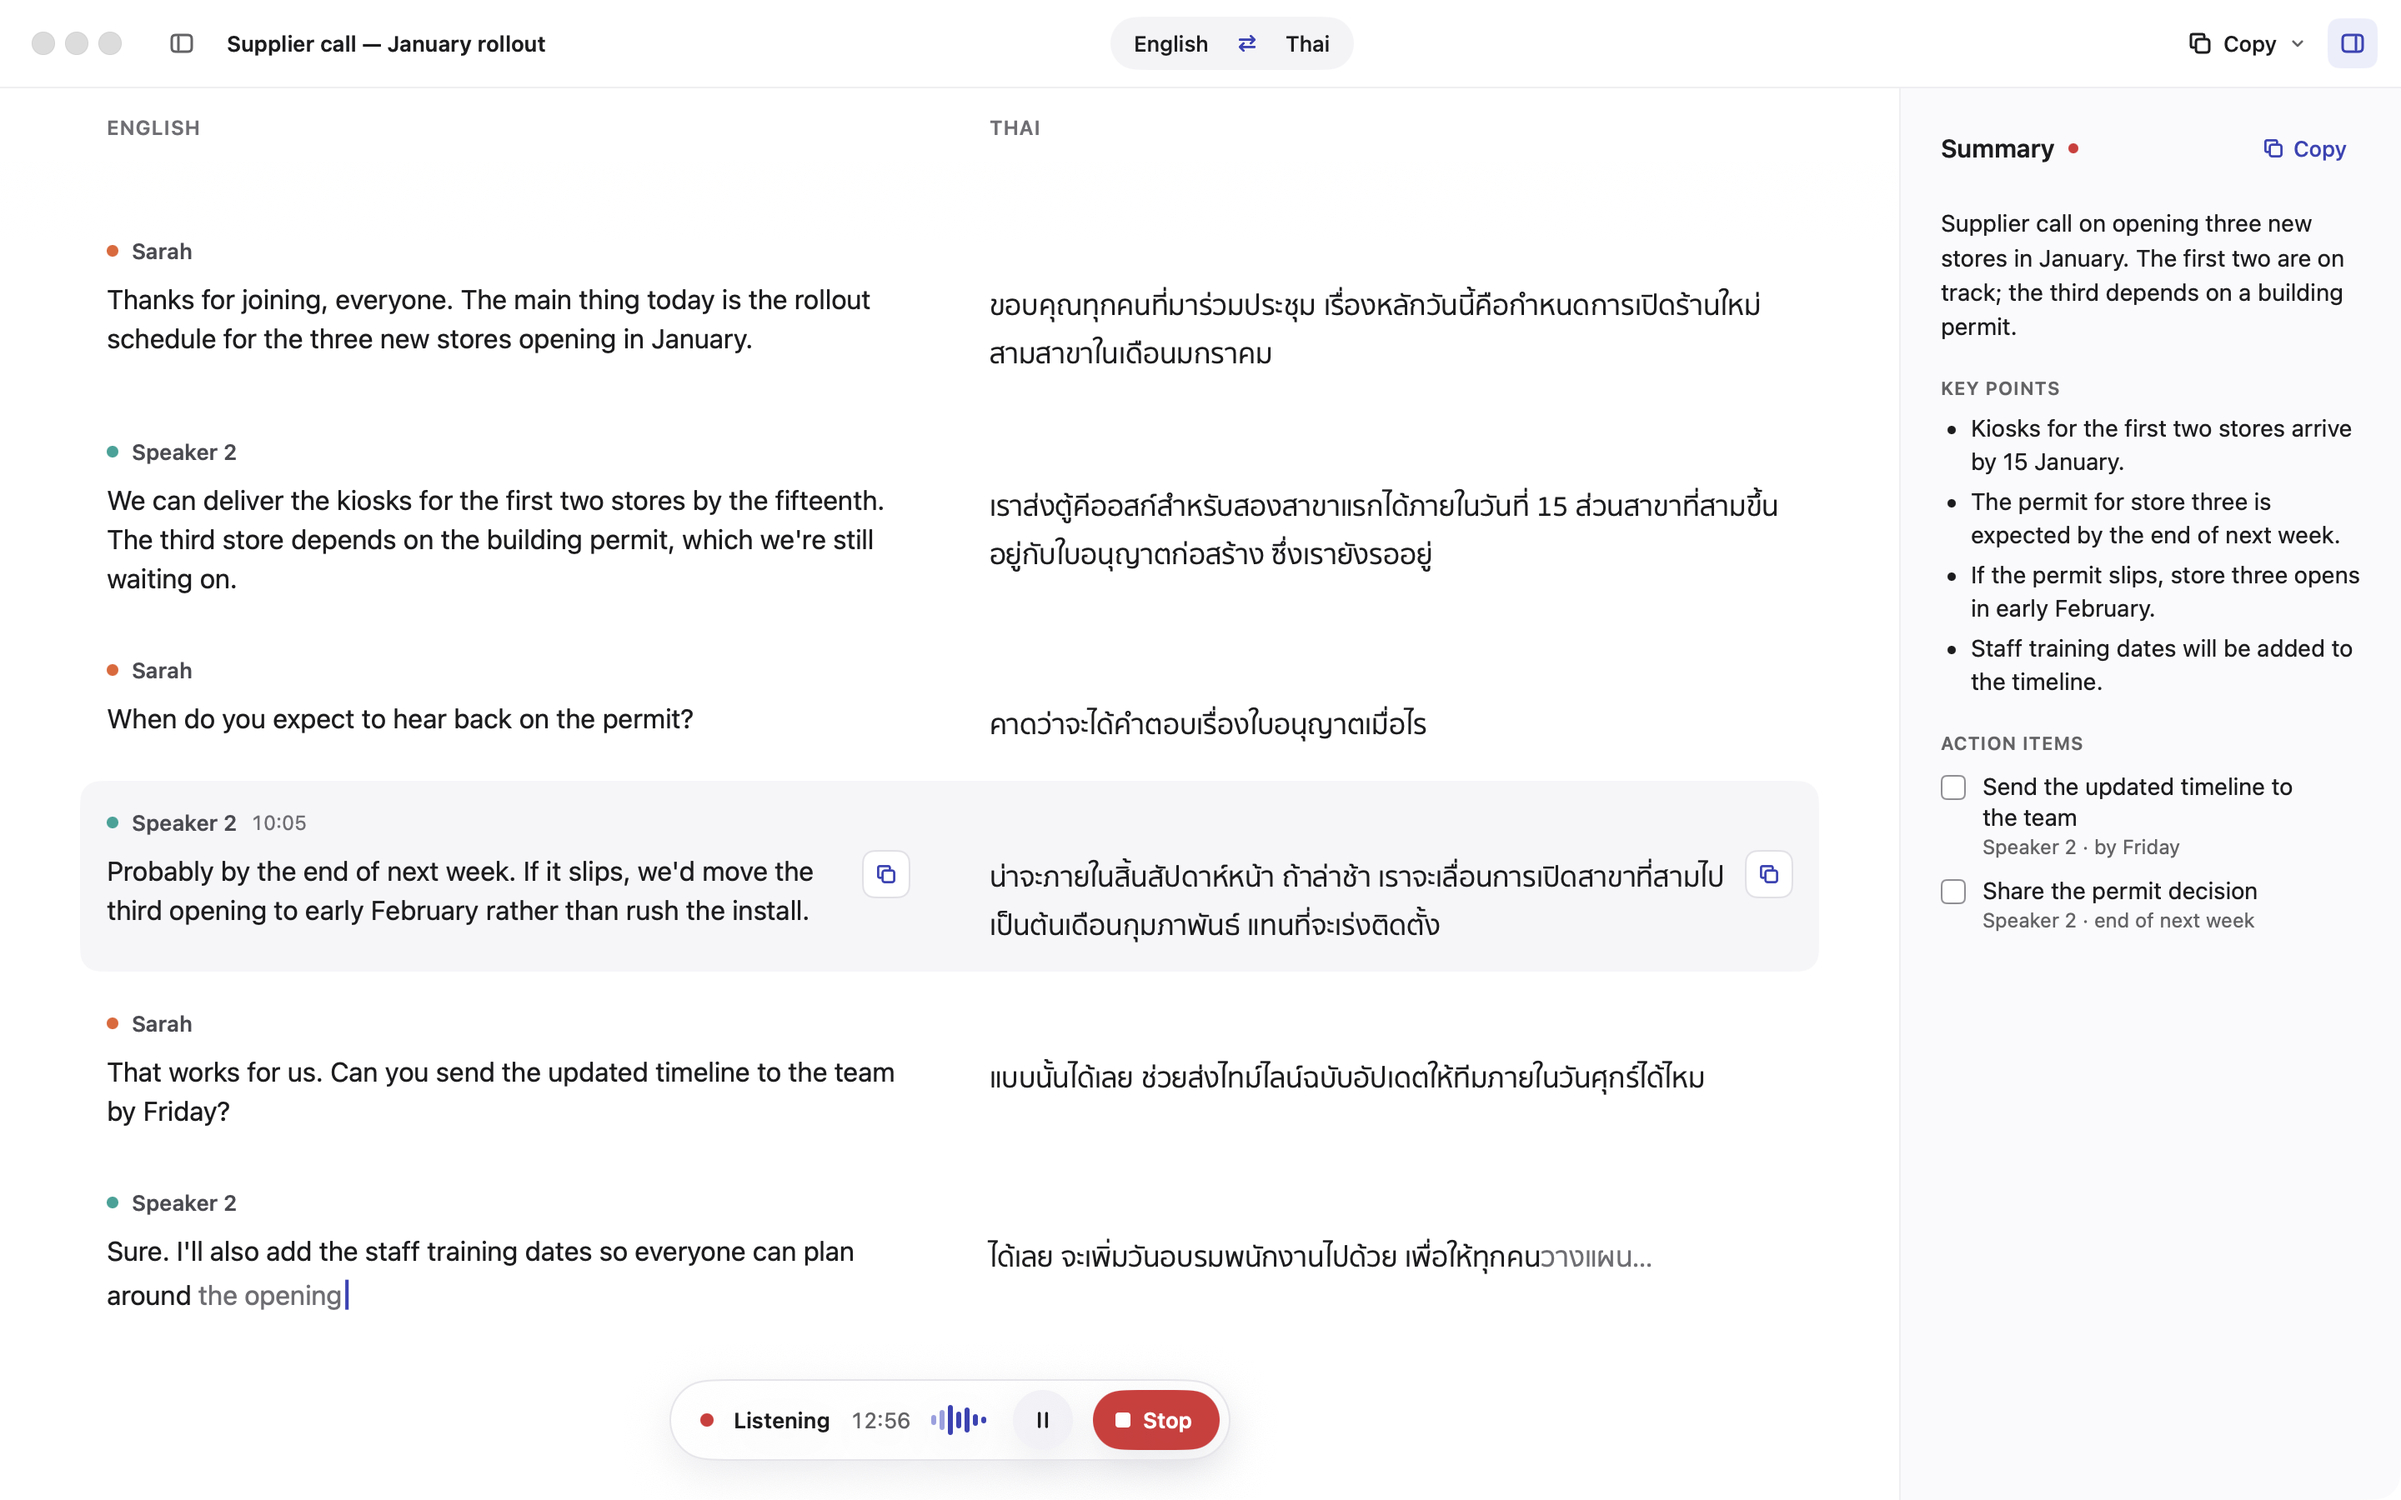
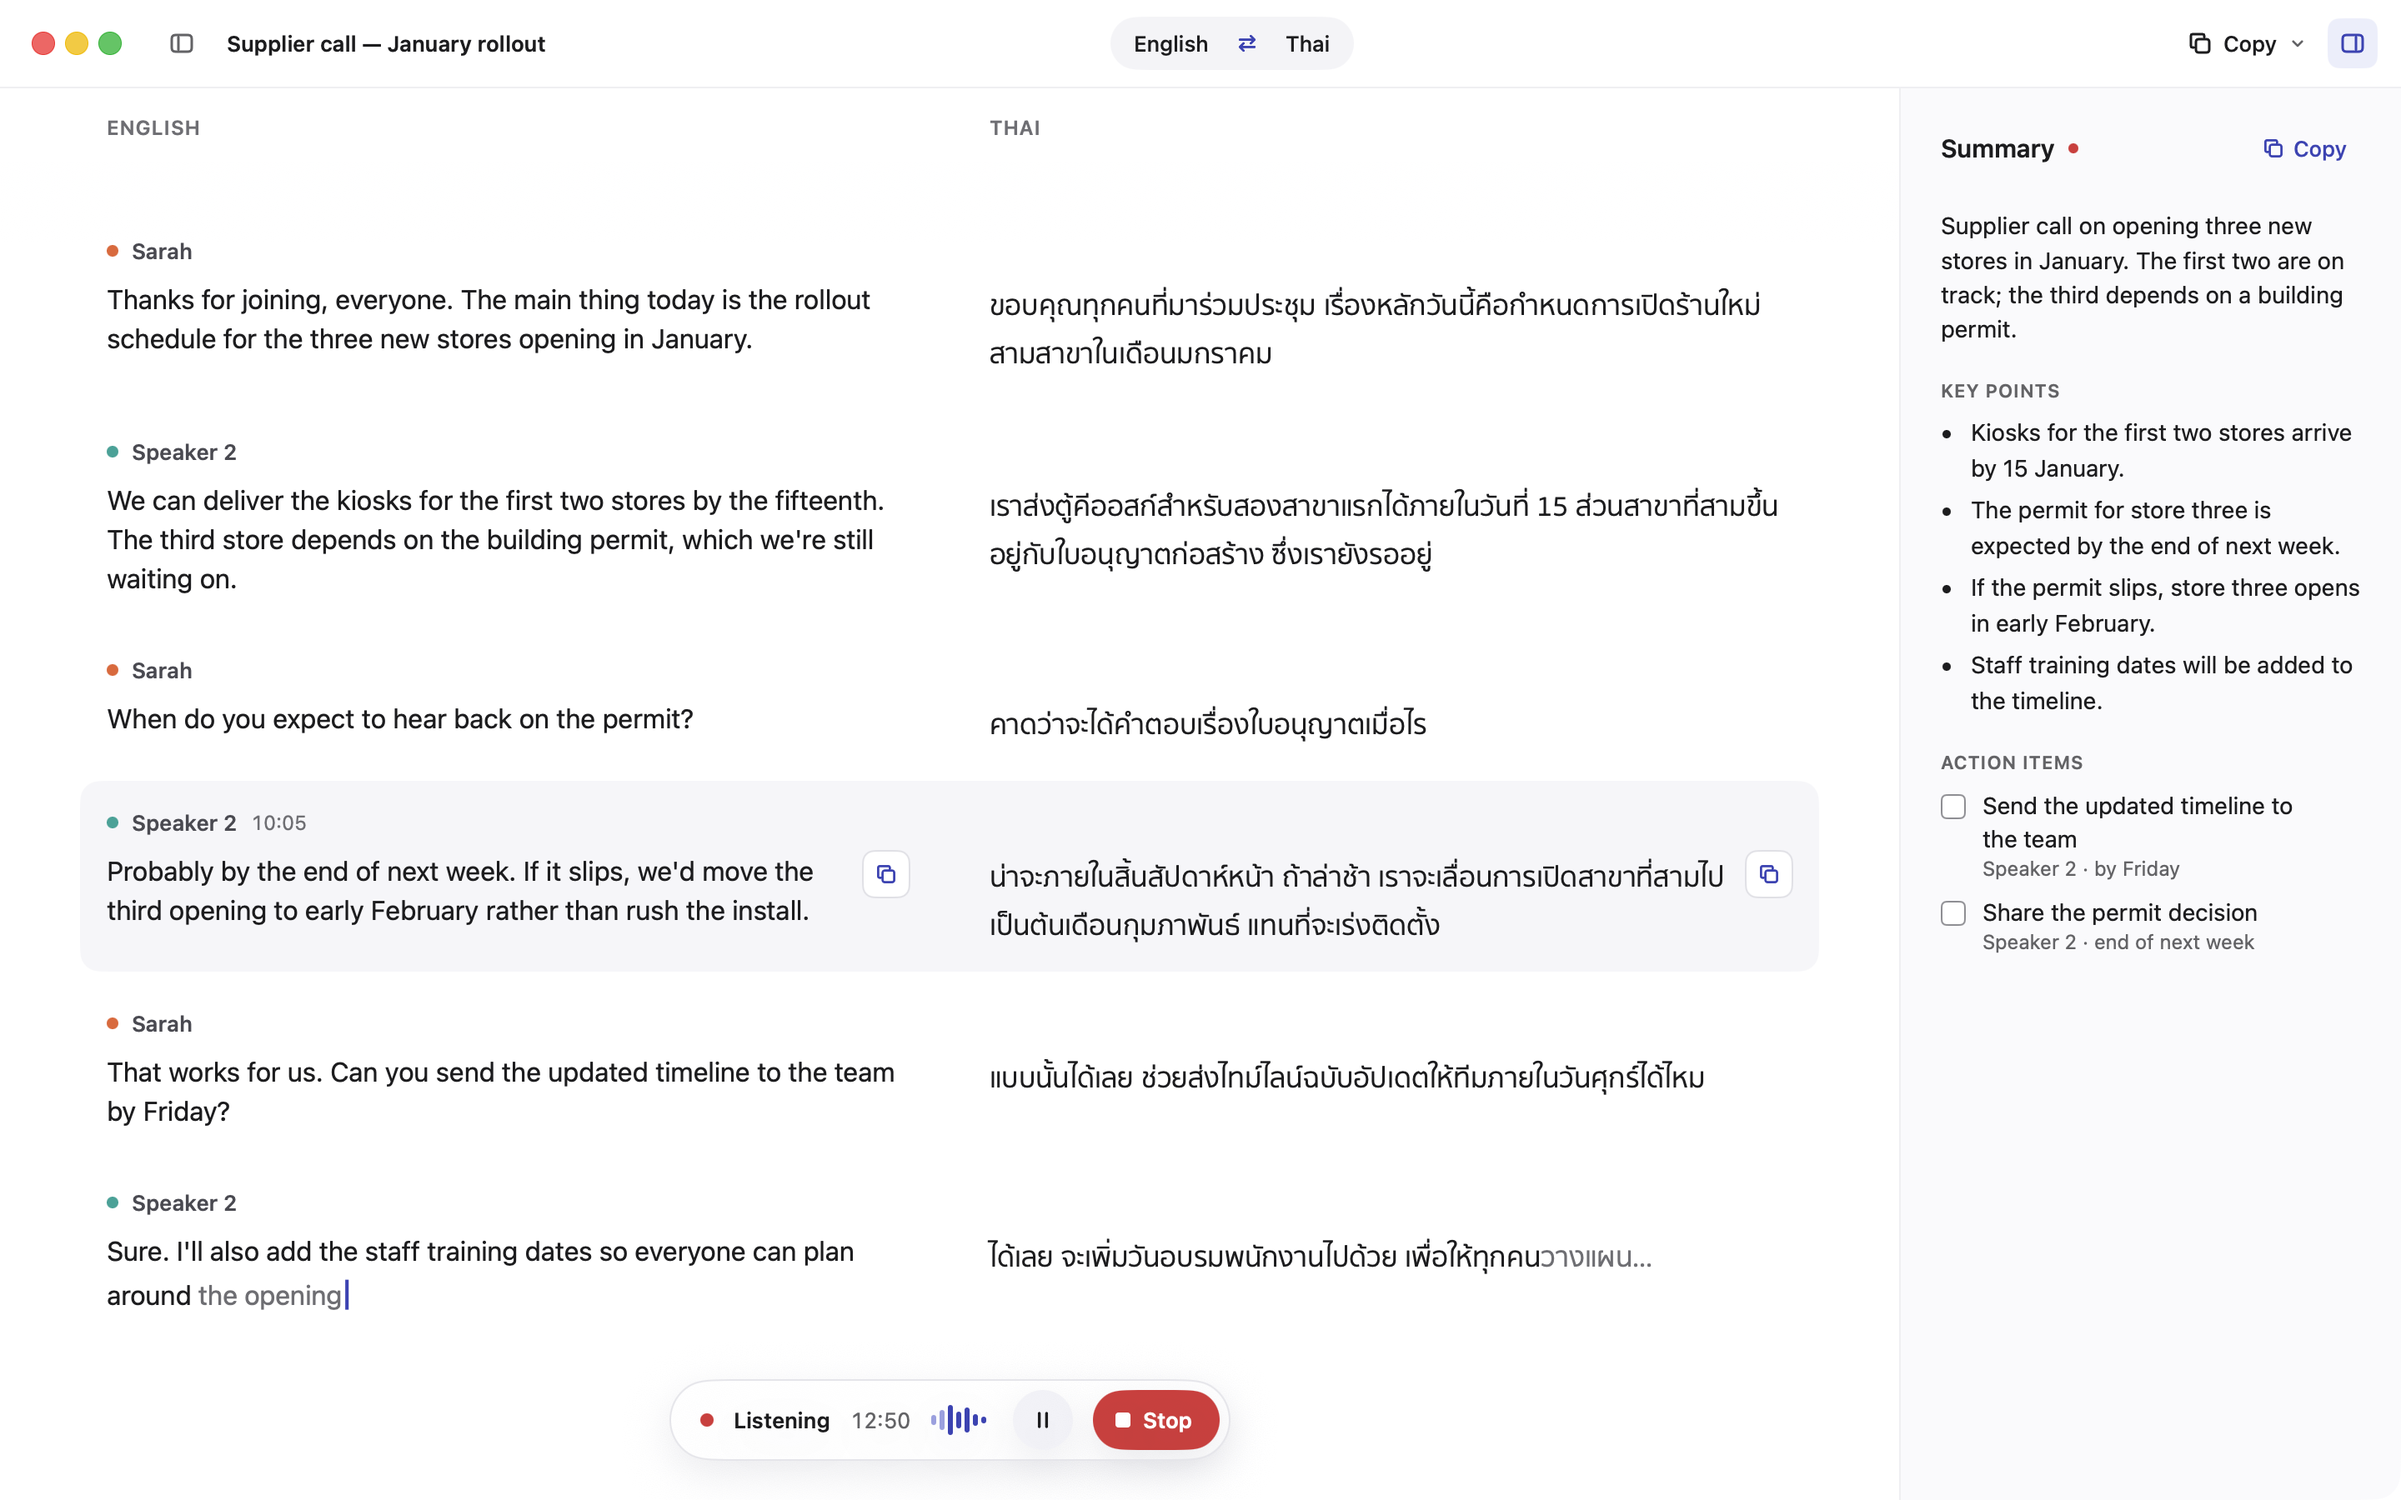
Match the summary panel's spacing to the design and check the design's shortcuts in the live app.
The summary's paragraph, key points and action items now sit on the
design's line heights and bullet position. Measured against the design
rendered in WebKit, a capture of the running window matches 90–99% of
pixels per region (column labels 99.2%, pill 97.6%, header 95.0%,
transcript 93.8%, summary 90.2%); the rest is text antialiasing.

A keys automation mode sends real key events through the menu bar:
⌥⌘1–4 copy the original, translation, bilingual and summary variants,
Include → Timestamps adds times, ⇧⌘K opens the 760 × 184 captions above
normal windows, and ⌥⌘I / ⌃⌘S toggle the panels.

Changed region(s): [[0.8125, 0.2489, 1.0, 0.6533], [0.8125, 0.1244, 0.9688, 0.2178], [0.0, 0.0, 0.0625, 0.0311]]

diff --git a/Sources/LiveTranslateUI/AutomationRunner.swift b/Sources/LiveTranslateUI/AutomationRunner.swift
@@ -183,6 +183,12 @@ enum AutomationRunner {
             NSApp.terminate(nil)
             return
         }
+        if ProcessInfo.processInfo.environment["LT_AUTOMATION_ONLY"] == "keys" {
+            await keyboardCheck(controller)
+            check("Done", true, folder.path)
+            NSApp.terminate(nil)
+            return
+        }
         if ProcessInfo.processInfo.environment["LT_AUTOMATION_ONLY"] == "window" {
             await windowCheck()
             check("Done", true, folder.path)
@@ -281,6 +287,61 @@ enum AutomationRunner {
         let heard = ["meeting", "notes", "translation", "ship"].filter { source.lowercased().contains($0) }
         check("\(label): speech recognized from real sound", heard.count >= 2, source)
         check("\(label): translated to Thai", translation.unicodeScalars.contains { (0x0E00...0x0E7F).contains($0.value) }, translation)
+    }
+
+    /// The design's shortcuts, sent as real key events through the app's menu bar:
+    /// ⌥⌘1–4 copy the session, ⇧⌘K opens the floating captions above other windows.
+    private static func keyboardCheck(_ controller: SessionController) async {
+        controller.loadDemo()
+        await sleep(1)
+        func press(_ key: String, _ flags: NSEvent.ModifierFlags) -> Bool {
+            guard let event = NSEvent.keyEvent(
+                with: .keyDown, location: .zero, modifierFlags: flags, timestamp: ProcessInfo.processInfo.systemUptime,
+                windowNumber: NSApp.mainWindow?.windowNumber ?? 0, context: nil,
+                characters: key, charactersIgnoringModifiers: key, isARepeat: false, keyCode: 0
+            ) else { return false }
+            return NSApp.mainMenu?.performKeyEquivalent(with: event) ?? false
+        }
+        let expectations: [(String, String, (String) -> Bool)] = [
+            ("1", "⌥⌘1 copies the original", { $0.contains("Thanks for joining") && !$0.contains("ขอบคุณ") }),
+            ("2", "⌥⌘2 copies the translation", { $0.contains("ขอบคุณ") && !$0.contains("Thanks for joining") }),
+            ("3", "⌥⌘3 copies both, line by line", { $0.contains("opening in January.\nขอบคุณ") }),
+            ("4", "⌥⌘4 copies the summary", { $0.contains("Supplier call on opening three new stores") && $0.contains("Send the updated timeline") }),
+        ]
+        for (key, name, valid) in expectations {
+            NSPasteboard.general.clearContents()
+            let handled = press(key, [.command, .option])
+            await sleep(0.3)
+            let pasted = NSPasteboard.general.string(forType: .string) ?? ""
+            check(name, handled && valid(pasted), String(pasted.prefix(120)))
+        }
+        controller.copyOptions.timestamps = true
+        NSPasteboard.general.clearContents()
+        _ = press("1", [.command, .option])
+        await sleep(0.3)
+        let stamped = NSPasteboard.general.string(forType: .string) ?? ""
+        check("Include → Timestamps adds times", stamped.contains("Sarah · 10:02"), String(stamped.prefix(80)))
+        controller.copyOptions.timestamps = false
+
+        let opened = press("k", [.command, .shift])
+        await sleep(1.5)
+        let captions = NSApp.windows.first { $0.identifier?.rawValue.hasPrefix(CaptionsWindow.id) == true }
+        check("⇧⌘K opens floating captions", opened && captions?.isVisible == true, captions.map { "\(Int($0.frame.width)) × \(Int($0.frame.height))" } ?? "no window")
+        // SwiftUI's .floating window level is AppKit's utility level (19): above every normal window.
+        check("Captions keep on top of other windows", (captions?.level.rawValue ?? 0) > NSWindow.Level.normal.rawValue,
+              "level \(captions?.level.rawValue ?? -1) vs normal \(NSWindow.Level.normal.rawValue)")
+        if let captions, let view = captions.contentView, let rep = view.bitmapImageRepForCachingDisplay(in: view.bounds) {
+            view.cacheDisplay(in: view.bounds, to: rep)
+            try? rep.representation(using: .png, properties: [:])?.write(to: folder.appendingPathComponent("captions-live.png"))
+        }
+        let toggled = press("i", [.command, .option])
+        await sleep(0.5)
+        check("⌥⌘I hides the summary panel", toggled && !controller.showSummary, "showSummary \(controller.showSummary)")
+        _ = press("i", [.command, .option])
+        let sessions = press("s", [.command, .control])
+        await sleep(0.5)
+        check("⌃⌘S shows the sessions list", sessions && controller.showSessions, "showSessions \(controller.showSessions)")
+        _ = press("s", [.command, .control])
     }
 
     /// Shrink the window to the minimum; panels stay readable.

diff --git a/Sources/LiveTranslateUI/MacSessionView.swift b/Sources/LiveTranslateUI/MacSessionView.swift
@@ -64,6 +64,8 @@ struct MacSessionView: View {
             if ProcessInfo.processInfo.environment["LT_DEMO"] != nil {
                 try? await Task.sleep(nanoseconds: 2_000_000_000)
                 controller.loadDemo()
+                NSApp.activate()
+                NSApp.windows.first { $0.identifier?.rawValue.hasPrefix("main") == true }?.makeKeyAndOrderFront(nil)
             }
         }
         #endif
@@ -1003,6 +1005,7 @@ struct SummaryInspector: View {
         Text(verbatim: text.isEmpty ? NotesReducer.emptyLine : text)
             .font(.system(size: 14))
             .lineSpacing(14 * 0.26)
+            .padding(.top, 1.5)
             .foregroundStyle(text.isEmpty ? Theme.secondary : Theme.text)
             .textSelection(.enabled)
             .fixedSize(horizontal: false, vertical: true)
@@ -1019,11 +1022,13 @@ struct SummaryInspector: View {
                         HStack(alignment: .top, spacing: 0) {
                             Circle()
                                 .frame(width: 5, height: 5)
-                                .padding(.leading, 4)
-                                .padding(.top, 7.5)
+                                .padding(.leading, 1)
+                                .padding(.top, 8.5)
                                 .frame(width: 18, alignment: .leading)
+                            // 14 pt at line-height 1.45, as in the design's list.
                             Text(verbatim: controller.noteText(item.text))
-                                .lineSpacing(14 * 0.21)
+                                .lineSpacing(14 * 0.31)
+                                .padding(.top, 1)
                                 .textSelection(.enabled)
                                 .fixedSize(horizontal: false, vertical: true)
                         }
@@ -1054,7 +1059,9 @@ struct SummaryInspector: View {
                         VStack(alignment: .leading, spacing: 2) {
                             Text(verbatim: controller.noteText(item.text))
                                 .font(.system(size: 14))
-                                .lineSpacing(14 * 0.1)
+                                .lineSpacing(14 * 0.2)
+                                // CSS fits "…timeline to the" on the first line; SwiftUI needs a hair more room.
+                                .padding(.trailing, -4)
                                 .textSelection(.enabled)
                                 .fixedSize(horizontal: false, vertical: true)
                             if !item.speaker.isEmpty {
